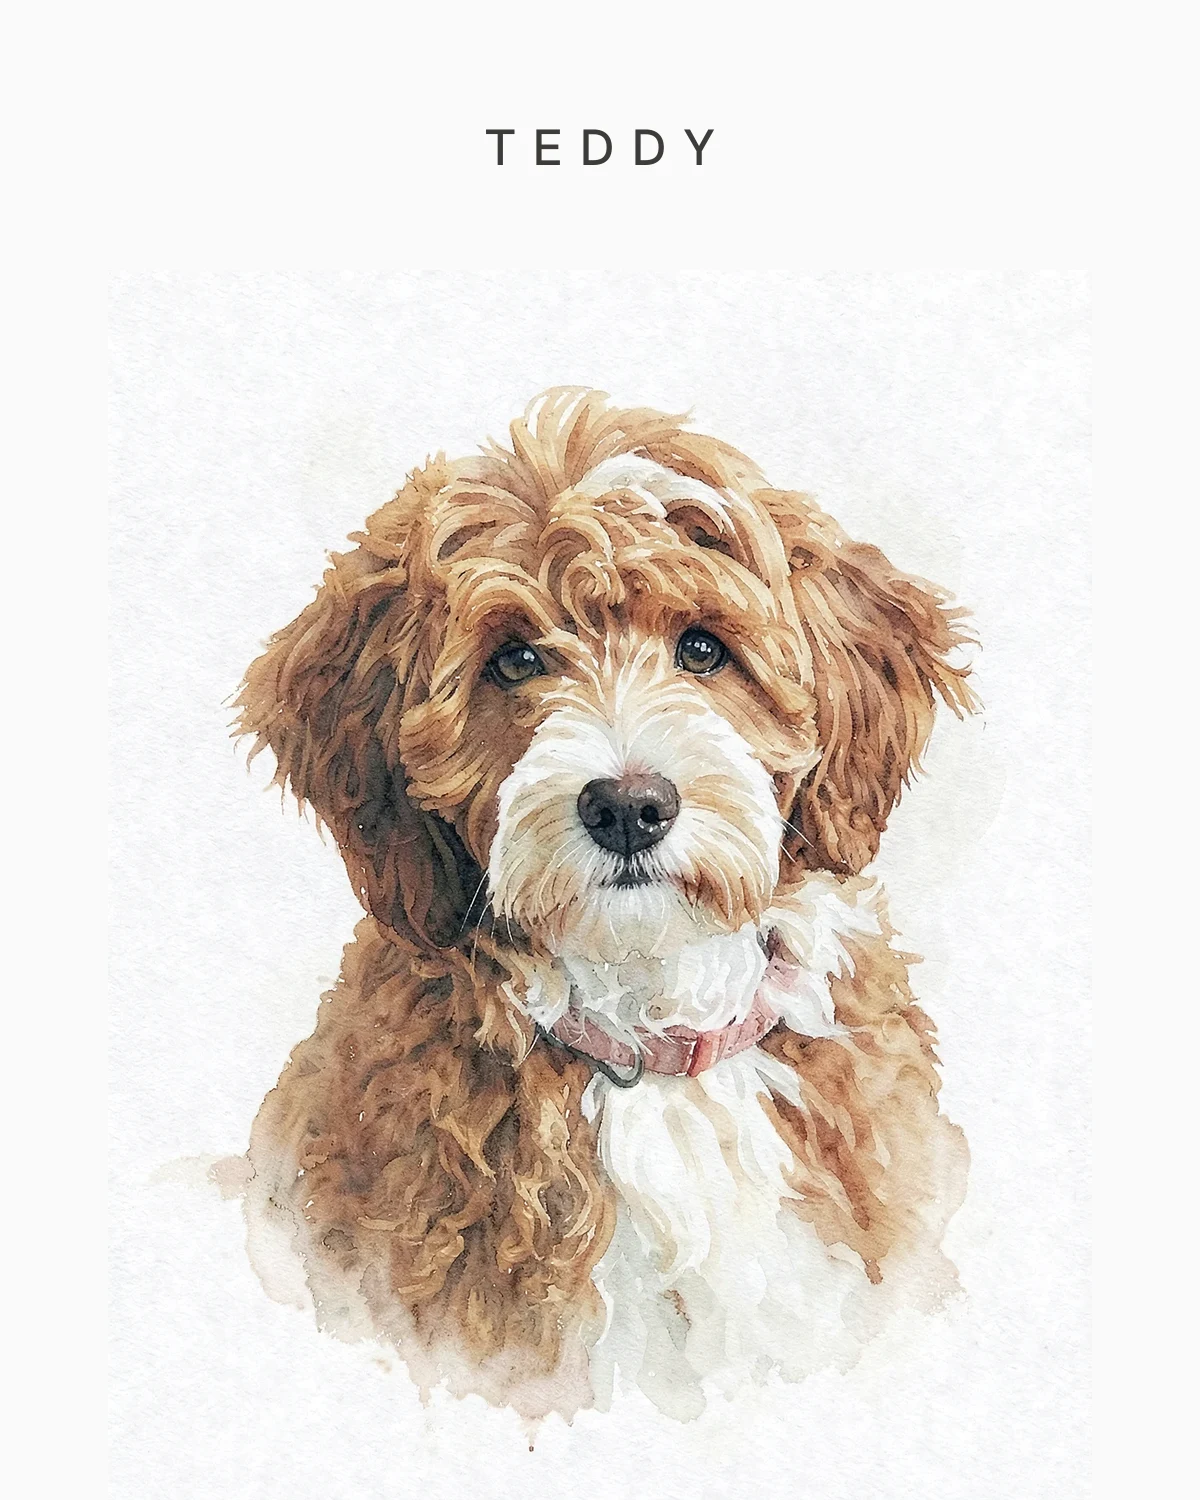
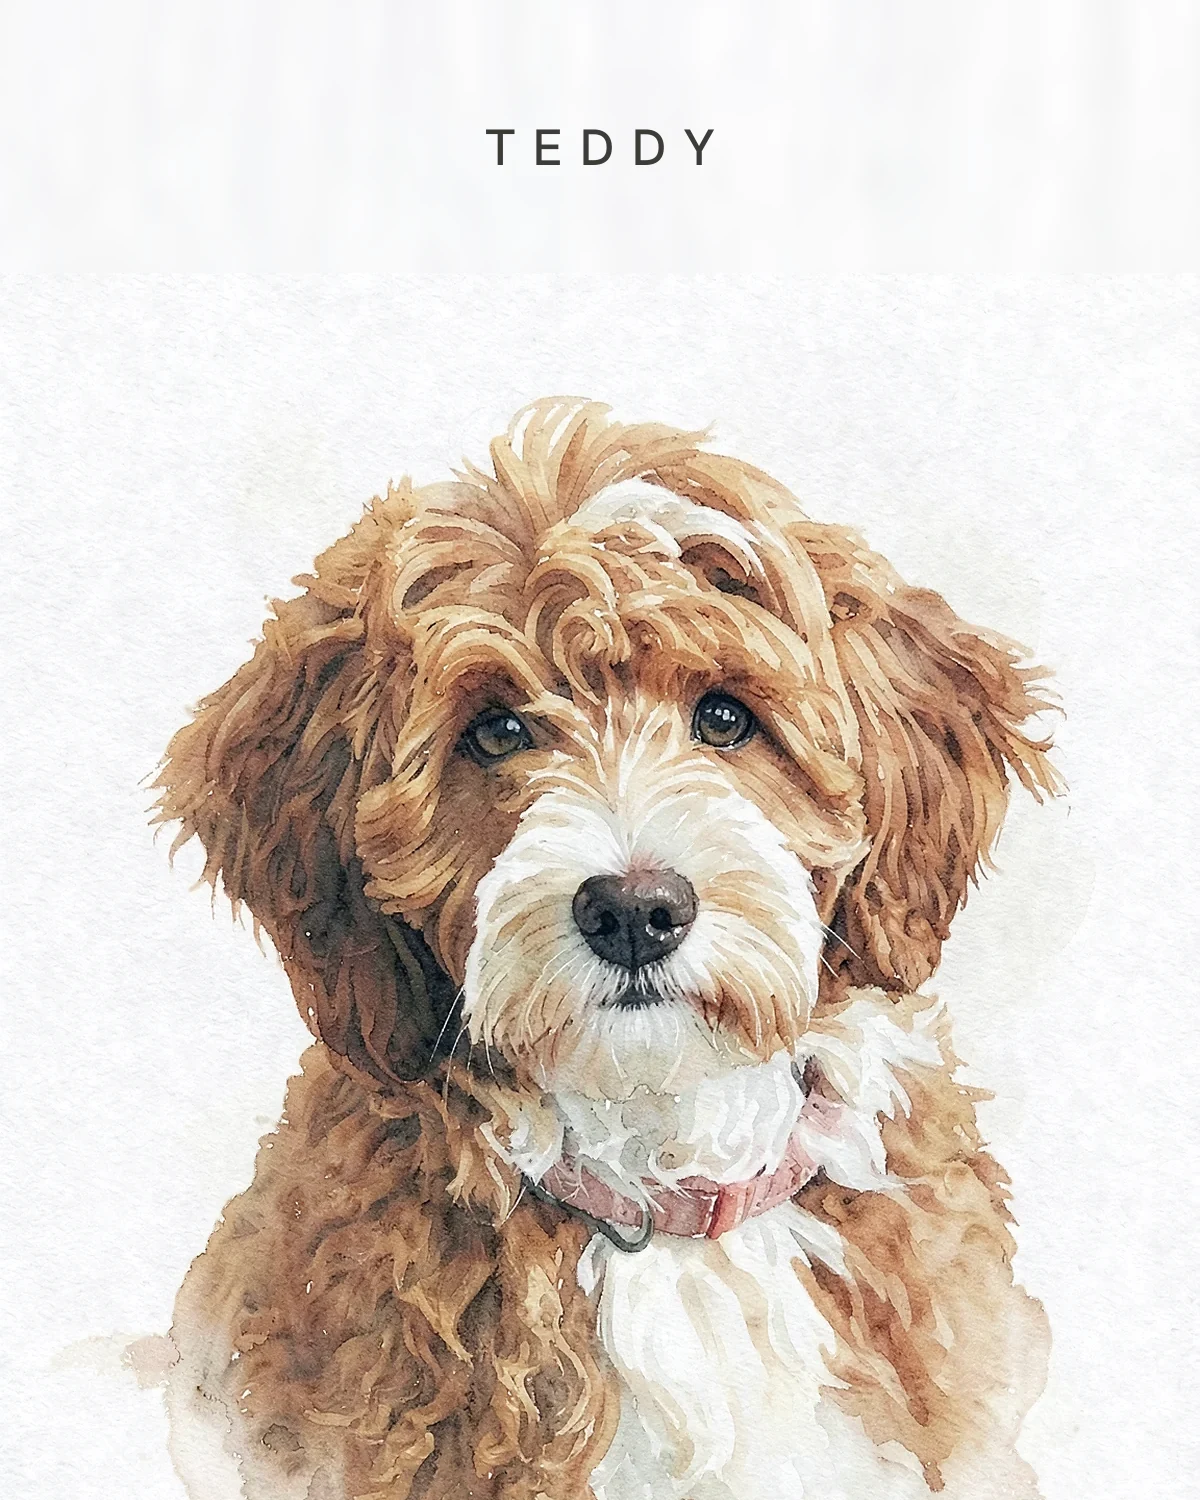
Seamless headroom for names on any style; samples re-lettered [deploy]
Claude-Session: https://claude.ai/code/session_01Q1G9K9iUNWePoTgYQBX8an

diff --git a/web/src/lib/image/lettering.ts b/web/src/lib/image/lettering.ts
@@ -207,56 +207,42 @@ export async function prepareGround(input: Buffer, ground: string, headroom: num
  * off-white on dark ones, judged from the strip the lettering sits on.
  */
 /**
- * Any style: scale the picture down, anchored bottom-centre, onto a canvas of its own background
- * color (taken from the top corners and upper side edges), with feathered top and side edges so
- * paper texture blends into the fill. The freed band at the top is where the name goes.
+ * Any style: move the picture down by `shift` of its height so the name has clear room above the
+ * head. The band that opens at the top is grown from the picture's own top edge (its first rows,
+ * smoothed sideways and stretched), so paper, washes and painted grounds continue without a seam;
+ * the same amount is trimmed from the bottom, which is chest in a head-and-chest portrait.
  */
-export async function makeHeadroom(input: Buffer, scale = 0.82): Promise<Buffer> {
-  const { data, info } = await sharp(input, { failOn: "none" })
-    .autoOrient()
-    .flatten({ background: "#ffffff" })
-    .toColourspace("srgb")
-    .raw()
-    .toBuffer({ resolveWithObject: true });
-  const { width, height, channels } = info;
-  if (channels < 3) return input;
-
-  // Background: median of a band along the top edge and the upper third of both side edges.
-  const band = Math.max(3, Math.round(width * 0.025));
-  const samples: number[][] = [[], [], []];
-  const take = (x: number, y: number) => {
-    const i = (y * width + x) * channels;
-    for (let c = 0; c < 3; c++) samples[c].push(data[i + c]);
-  };
-  for (let y = 0; y < band; y++) for (let x = 0; x < width; x += 2) take(x, y);
-  for (let y = band; y < height / 3; y += 2) {
-    for (let x = 0; x < band; x++) {
-      take(x, y);
-      take(width - 1 - x, y);
-    }
-  }
-  const bg = samples.map((v) => v.sort((a, b) => a - b)[v.length >> 1]);
-
-  const w2 = Math.round(width * scale);
-  const h2 = Math.round(height * scale);
-  const feather = Math.max(2, Math.round(w2 * 0.05));
-  // Alpha ramp on the top and side edges of the reduced picture; the bottom edge stays solid.
-  const mask = Buffer.alloc(w2 * h2);
-  for (let y = 0; y < h2; y++) {
-    const ay = Math.min(1, y / feather);
-    for (let x = 0; x < w2; x++) {
-      const ax = Math.min(1, x / feather, (w2 - 1 - x) / feather);
-      mask[y * w2 + x] = Math.round(255 * Math.min(ax, ay));
-    }
-  }
-  const small = await sharp(data, { raw: { width, height, channels } })
-    .removeAlpha()
-    .resize(w2, h2, { kernel: "lanczos3" })
-    .joinChannel(mask, { raw: { width: w2, height: h2, channels: 1 } })
+export async function makeHeadroom(input: Buffer, shift = 0.17): Promise<Buffer> {
+  const base = sharp(input, { failOn: "none" }).autoOrient().flatten({ background: "#ffffff" }).toColourspace("srgb");
+  const { data, info } = await base.png().toBuffer({ resolveWithObject: true });
+  const { width, height } = info;
+  const band = Math.round(height * shift);
+  const strip = Math.max(2, Math.round(height * 0.012));
+  if (band < 4 || height - band < 16) return input;
+  const top = await sharp(data)
+    .extract({ left: 0, top: 0, width, height: strip })
+    .blur(Math.max(1, width * 0.03))
+    .resize(width, band + strip, { fit: "fill", kernel: "cubic" })
+    .blur(Math.max(1, width * 0.01))
     .png()
     .toBuffer();
-  return sharp({ create: { width, height, channels: 3, background: { r: bg[0], g: bg[1], b: bg[2] } } })
-    .composite([{ input: small, left: Math.round((width - w2) / 2), top: height - h2 }])
+  const kept = await sharp(data).extract({ left: 0, top: 0, width, height: height - band }).png().toBuffer();
+  // The grown band overlaps the picture's first rows with a soft ramp, so there is no line.
+  const ramp = Buffer.alloc(width * (band + strip), 255);
+  for (let y = band; y < band + strip; y++) {
+    const a = Math.round(255 * (1 - (y - band + 1) / (strip + 1)));
+    ramp.fill(a, y * width, (y + 1) * width);
+  }
+  const topWithAlpha = await sharp(top)
+    .removeAlpha()
+    .joinChannel(ramp, { raw: { width, height: band + strip, channels: 1 } })
+    .png()
+    .toBuffer();
+  return sharp({ create: { width, height, channels: 3, background: "#ffffff" } })
+    .composite([
+      { input: kept, left: 0, top: band },
+      { input: topWithAlpha, left: 0, top: 0 },
+    ])
     .png()
     .toBuffer();
 }
